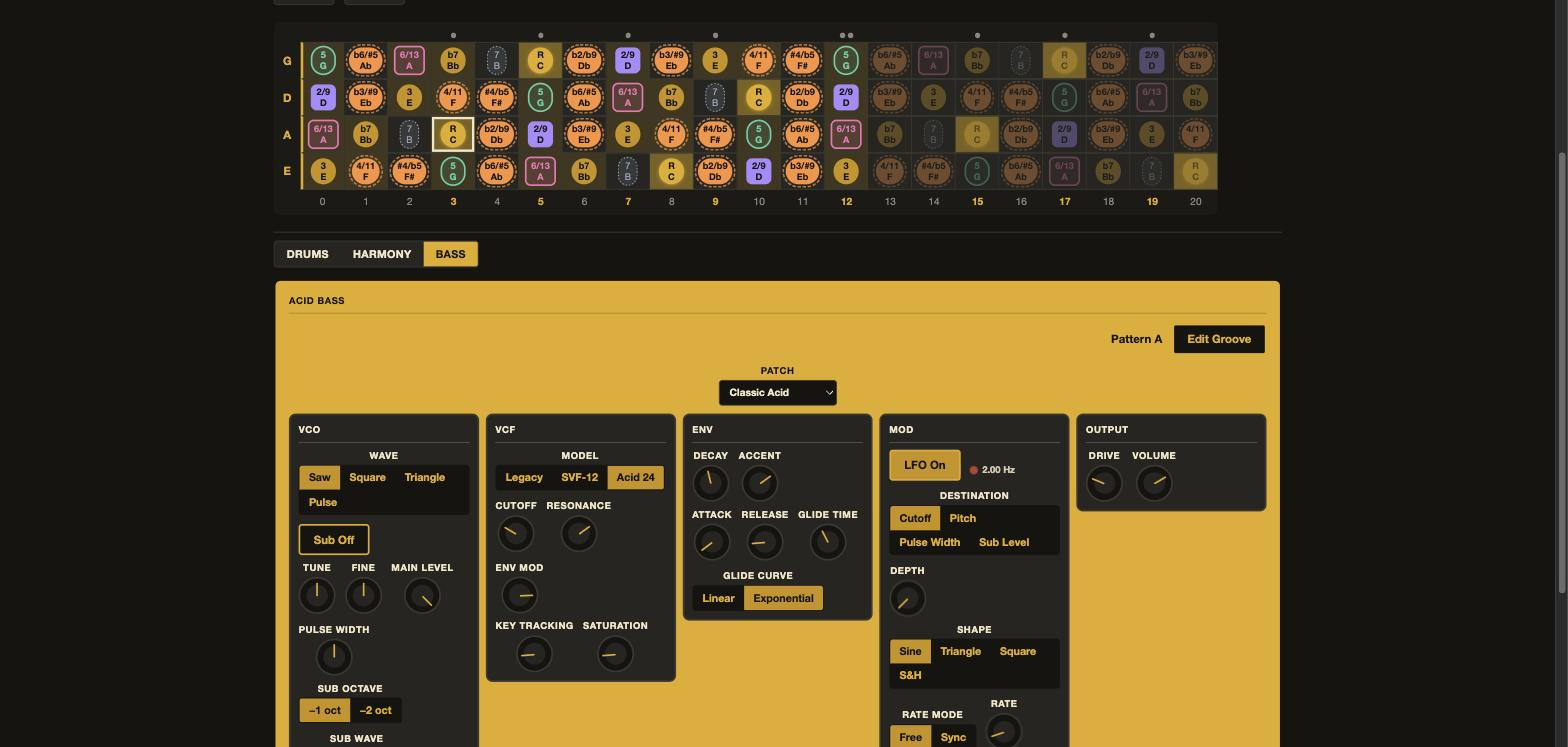
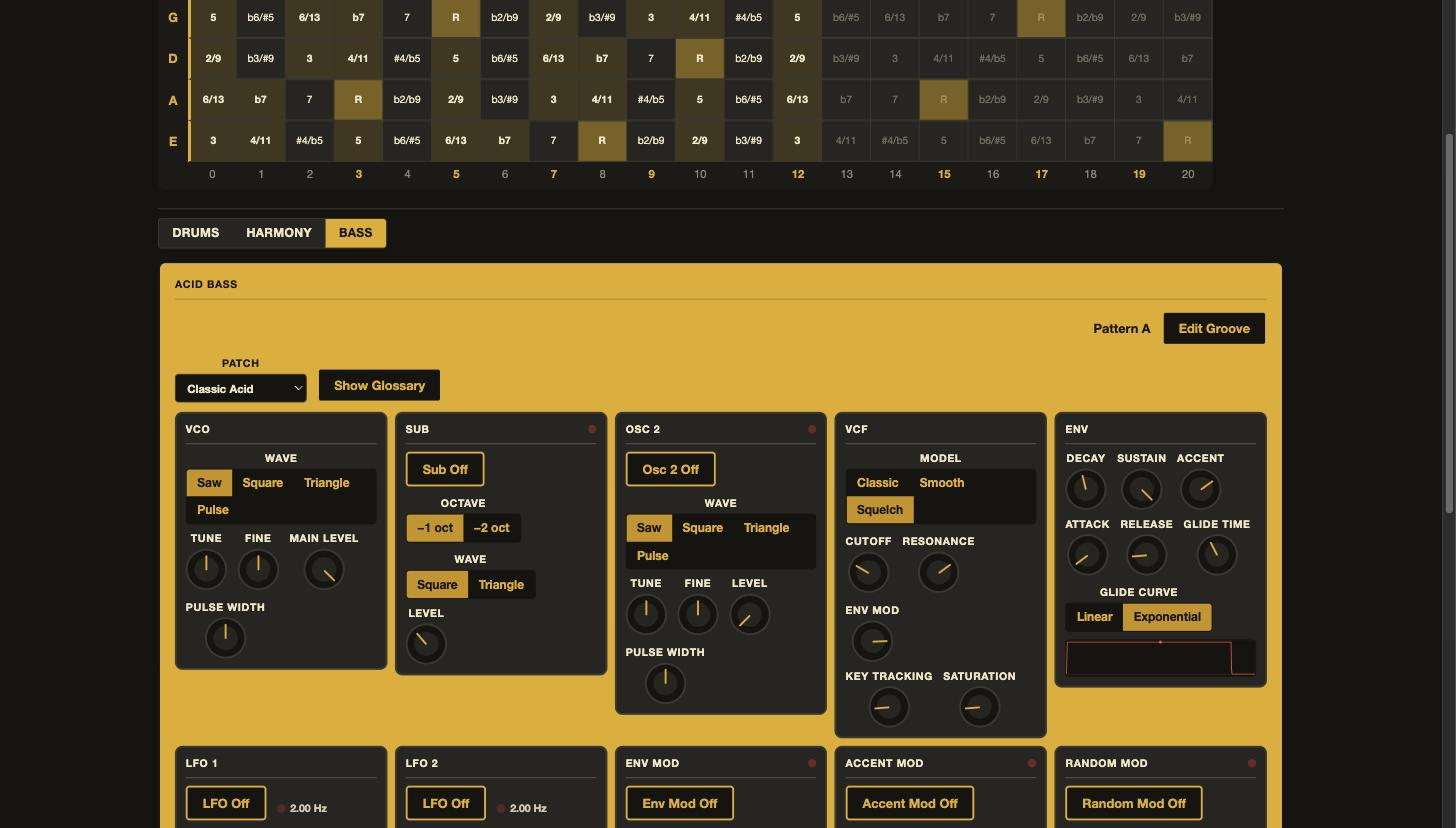
docs: refresh stale Acid Bass screenshot
The prior screenshot predated M15-M22: it showed the old 5-panel
layout, the old Legacy/SVF-12/Acid 24 filter labels, and none of
Sub/Osc 2/Env Mod/Accent Mod/Random Mod/Delay or the Sustain knob
and envelope-shape scope. Chord Field, Scale Practice, and Groove
Editor screenshots still match the current app and are untouched.

diff --git a/README.md b/README.md
@@ -43,9 +43,9 @@ FretField is an interactive bass-fretboard application that teaches the neck as 
 <tr>
 <td width="50%">
 
-**Acid Bass** — the 303-style synth bass: oscillators, filter, five modulation sources, three distortion characters, and a tempo-synced delay
+**Acid Bass** — the 303-style synth bass: dual oscillators plus sub, filter, five modulation sources, three distortion characters, and a tempo-synced delay
 
-<img src="./docs/screenshots/acid-bass.jpg" alt="The Acid Bass Engine's VCO, VCF, ENV, MOD, and OUTPUT panels laid out in a compact grid, with the LFO on and its rate indicator lit">
+<img src="./docs/screenshots/acid-bass.jpg" alt="The Acid Bass Engine's VCO, Sub, Osc 2, VCF, and ENV panels, with the Squelch filter model selected and the ENV panel's live envelope-shape scope visible, plus the LFO 1/LFO 2/Env Mod/Accent Mod/Random Mod panel row beneath">
 
 </td>
 <td width="50%">
